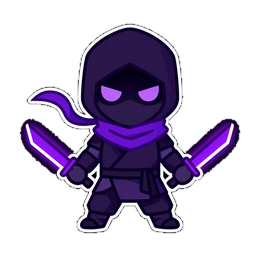
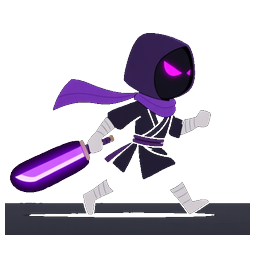
feat(anim): attack 애니메이션 10종 42프레임 + walk 재생성 30장 연동

diff --git a/js/entities.js b/js/entities.js
@@ -12,7 +12,7 @@ function spawnEnemy(forceType) {
     hp: Math.round(base.hp * scale), maxHp: Math.round(base.hp * scale),
     speed: base.speed, dmg: Math.round(base.dmg * enemyDmgScale(stage)),
     xp: base.xp, radius: type === 'tanky' ? 20 : type === 'miniboss' ? 30 : 13,
-    slow: 0, stun: 0, hitFlash: 0,
+    slow: 0, stun: 0, hitFlash: 0, atkAnimT: 0,
     shootTimer: (type === 'ranged' || type === 'miniboss' || type === 'boss') ? 1 : 0,
     animT: Math.random() * 2, phase: Math.random() * 6.28,
   };
@@ -29,7 +29,7 @@ function spawnBoss(stage) {
     hp: base.hp * enemyHpScale(stage), maxHp: base.hp * enemyHpScale(stage),
     speed: base.speed, dmg: base.dmg * enemyDmgScale(stage),
     xp: base.xp, radius: bt === 'miniboss' ? 30 : 44,
-    slow: 0, stun: 0, hitFlash: 0, shootTimer: 2,
+    slow: 0, stun: 0, hitFlash: 0, atkAnimT: 0, shootTimer: 2,
     animT: 0, phase: Math.random() * 6.28,
   };
   G.boss = e;
@@ -138,6 +138,7 @@ function updatePlayer(dt) {
   p.trail.push({ x: p.x, y: p.y });
   if (p.trail.length > 8) p.trail.shift();
   p.atkTimer -= dt;
+  p.atkAnimT = Math.max(0, p.atkAnimT - dt);
   p.invulnTimer -= dt;
   p.flash = Math.max(0, p.flash - dt);
   if (p.shield > 0) { p.shieldDur -= dt; if (p.shieldDur <= 0) p.shield = 0; }
@@ -151,6 +152,7 @@ function updatePlayer(dt) {
     if (targets.length) {
       const cdMul = p.skills.multishot ? (p.skills.multishot >= 4 ? 0.9 : 1) * (p.skills.multishot >= 5 ? 0.9 : 1) : 1;
       p.atkTimer = PLAYER.atkCd * cdMul / hits / (1 + compAtkSpd());
+      p.atkAnimT = ATK_DUR;   // 공격 애니메이션 트리거
       for (const t of targets) {
         for (let i = 0; i < hits; i++) damageEnemy(t, PLAYER.atkDmg * (i === 0 ? 1 : 0.5) * dmgMul(), { fromMelee: true });
         G.particles.push({ x: t.x, y: t.y, vx: (Math.random()-.5)*80, vy: (Math.random()-.5)*80, life: .12, maxLife: .12, color: '#fff', size: 4 });
@@ -185,6 +187,7 @@ function updateEnemies(dt) {
     // 스톤
     if (e.stun > 0) { e.stun -= dt; continue; }
     e.animT = (e.animT || 0) + dt;
+    e.atkAnimT = Math.max(0, (e.atkAnimT || 0) - dt);
     // 감속
     let mul = 1;
     if (e.slowDur > 0) { e.slowDur -= dt; mul = 1 - e.slow / 100; if (e.slowDur <= 0) e.slow = 0; }
@@ -209,6 +212,7 @@ function updateEnemies(dt) {
         e.shootTimer -= dt;
         if (e.shootTimer <= 0 && d < 400) {
           e.shootTimer = 1.5;
+          e.atkAnimT = ATK_DUR;
           G.projectiles.push({ x: e.x, y: e.y, vx: nx * 260, vy: ny * 260, dmg: e.dmg, friendly: false, r: 5, life: 3 });
         }
         break;
@@ -217,6 +221,7 @@ function updateEnemies(dt) {
         e.shootTimer -= dt;
         if (e.shootTimer <= 0) {
           e.shootTimer = 2;
+          e.atkAnimT = ATK_DUR;
           for (let i = 0; i < 3; i++) {   // 구슬 8→3 (플레이테스트: 너무 많아)
             const a = (i / 3) * Math.PI * 2 + G.time;
             G.projectiles.push({ x: e.x, y: e.y, vx: Math.cos(a) * 220, vy: Math.sin(a) * 220, dmg: e.dmg, friendly: false, r: 6, life: 4 });
@@ -228,6 +233,7 @@ function updateEnemies(dt) {
         e.shootTimer -= dt;
         if (e.shootTimer <= 0) {
           e.shootTimer = 2;
+          e.atkAnimT = ATK_DUR;
           for (let i = 0; i < 8; i++) {
             const a = (i / 8) * Math.PI * 2 + G.time * 0.7;
             G.projectiles.push({ x: e.x, y: e.y, vx: Math.cos(a) * 240, vy: Math.sin(a) * 240, dmg: e.dmg * 0.6, friendly: false, r: 6, life: 4 });

diff --git a/js/render.js b/js/render.js
@@ -108,7 +108,7 @@ function render() {
   ctx.textAlign = 'start'; ctx.textBaseline = 'alphabetic';
   // 적 (애니메이션 프레임 / 정적 에셋 폴백 → 원 폴백)
   for (const e of G.enemies) {
-    if (!drawSprite('enemy_' + e.type, e.x, e.y, e.radius * 2, e.animT || 0, true, e.phase)) {
+    if (!drawSprite('enemy_' + e.type, e.x, e.y, e.radius * 2, e.animT || 0, true, e.phase, e.atkAnimT || 0)) {
       ctx.fillStyle = e.hitFlash > 0 ? '#ffffff' : ENEMY_COLORS[e.type];
       ctx.beginPath(); ctx.arc(e.x, e.y, e.radius, 0, Math.PI * 2); ctx.fill();
     } else if (e.hitFlash > 0) {
@@ -205,7 +205,7 @@ function render() {
     ctx.setLineDash([]);
   }
   const psz = p.radius * 2.6;
-  if (!drawSprite('player', p.x, p.y, psz, p.animT || 0, p.moving, 0)) {
+  if (!drawSprite('player', p.x, p.y, psz, p.animT || 0, p.moving, 0, p.atkAnimT || 0)) {
     ctx.fillStyle = p.flash > 0 ? '#ff8899' : '#ffffff';
     ctx.beginPath(); ctx.arc(p.x, p.y, p.radius, 0, Math.PI * 2); ctx.fill();
   }
@@ -227,7 +227,7 @@ function render() {
   if (G.companion) {
     const c = G.companion;
     const cdef = CONFIG.COMPANIONS.find(x => x.id === c.id);
-    const cdrawn = drawSprite('comp_' + c.id, c.x, c.y, 26, G.time, true, 1);
+    const cdrawn = drawSprite('comp_' + c.id, c.x, c.y, 26, G.time, true, 1, c.atkAnimT || 0);
     if (!cdrawn) {
       ctx.fillStyle = COMP_COLORS[c.id] || '#ffffff';
       ctx.beginPath(); ctx.arc(c.x, c.y, 11, 0, Math.PI * 2); ctx.fill();

diff --git a/js/assets.js b/js/assets.js
@@ -47,7 +47,30 @@ for (const an in ANIM_SPECS) {
     img.src = 'assets/' + an + '_f' + i + '.png';
   }
 }
-function drawSprite(name, x, y, size, animT, moving, phase) {
+// ===== 공격 애니메이션 (4프레임 시트 / player 6프레임) =====
+// 공격 트리거 시 atkAnimT = ATK_DUR 설정 → 0까지 카운트다운. >0 동안 drawSprite가 공격 프레임 우선 렌더.
+const ATK_DUR = 0.32;
+const ATK_ANIM_NAMES = ['player','enemy_basic','enemy_fast','enemy_tanky','enemy_ranged','enemy_miniboss','enemy_boss','comp_warrior','comp_guardian','comp_shadow'];
+const ATK_FRAME_COUNT = { player: 6 };   // 나머지 10종은 4프레임
+const ATK_ANIM = {};
+for (const an of ATK_ANIM_NAMES) {
+  const n = ATK_FRAME_COUNT[an] || 4;
+  const frames = [];
+  let loaded = 0;
+  for (let i = 0; i < n; i++) {
+    const img = new Image();
+    img.onload = () => { loaded++; frames[i] = img; if (loaded === n) ATK_ANIM[an] = frames; };
+    img.src = 'assets/' + an + '_a' + i + '.png';
+  }
+}
+function drawSprite(name, x, y, size, animT, moving, phase, atkAnimT) {
+  if (atkAnimT > 0 && ATK_ANIM[name]) {
+    const frames = ATK_ANIM[name];
+    const t = clamp(atkAnimT / ATK_DUR, 0, 1);
+    const idx = Math.min(frames.length - 1, Math.floor((1 - t) * frames.length));
+    ctx.drawImage(frames[idx], x - size / 2, y - size / 2, size, size);
+    return true;
+  }
   const frames = ANIM[name];
   if (frames) {
     const spec = ANIM_SPECS[name];

diff --git a/js/skills.js b/js/skills.js
@@ -20,11 +20,13 @@ function updateCompanion(dt) {
     moveWithWalls(c, dx / d * sp, dy / d * sp, c.radius || 12);
   }
   c.atkTimer -= dt; c.ultTimer -= dt;
+  c.atkAnimT = Math.max(0, (c.atkAnimT || 0) - dt);
   if (c.id === 'warrior') {
     if (c.atkTimer <= 0) {
       const t = nearestEnemy(c.x, c.y, def.atk.range);
       if (t) {
         c.atkTimer = def.atk.cd;
+        c.atkAnimT = ATK_DUR;
         G.slashes.push({ x: c.x, y: c.y, angle: Math.atan2(t.y - c.y, t.x - c.x), range: 44, t: 0.16, maxT: 0.16 });
         damageEnemy(t, def.atk.dmg);
       }
@@ -57,6 +59,7 @@ function updateCompanion(dt) {
       const t = nearestEnemy(c.x, c.y, def.atk.range);
       if (t) {
         c.atkTimer = def.atk.cd;
+        c.atkAnimT = ATK_DUR;
         const a = Math.atan2(t.y - c.y, t.x - c.x);
         G.knives.push({ x: c.x, y: c.y, vx: Math.cos(a) * def.atk.projSpeed, vy: Math.sin(a) * def.atk.projSpeed, dmg: def.atk.dmg, life: 1.2 });
       }

diff --git a/js/state.js b/js/state.js
@@ -24,7 +24,7 @@ function newRun() {
       hp: PLAYER.hp, maxHp: PLAYER.maxHp,
       shield: 0, shieldDur: 0,
       xp: 0, level: 1, dmgBonus: 0,
-      skills: { shield: 1 }, atkTimer: 0, invulnTimer: 0, skillTimers: {},
+      skills: { shield: 1 }, atkTimer: 0, atkAnimT: 0, invulnTimer: 0, skillTimers: {},
       facing: { x: 1, y: 0 }, flash: 0, trail: [], animT: 0, moving: false,
     },
     enemies: [], projectiles: [], pickups: [], particles: [], slashes: [], floaters: [],
@@ -40,7 +40,7 @@ function newRun() {
   g.companion = {
     id: (CONFIG.COMPANIONS.find(c => c.id === chosenCompId) || CONFIG.COMPANIONS[0]).id,
     x: g.player.x - 45, y: g.player.y,
-    atkTimer: 1, healTimer: 8, ultTimer: 10,
+    atkTimer: 1, healTimer: 8, ultTimer: 10, atkAnimT: 0,
   };
   g.knives = [];
   const _gdef = CONFIG.COMPANIONS.find(c => c.id === g.companion.id);
